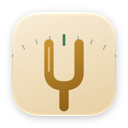
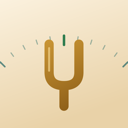
Refresh Our apps listing while preserving Brickwright branding

diff --git a/overlay/scratch-gui/src/components/menu-bar/app-showcase-data.js b/overlay/scratch-gui/src/components/menu-bar/app-showcase-data.js
@@ -4,10 +4,10 @@
 //
 // store: App Store id when the app is live there (mac: only on the Mac App Store);
 // beta: public TestFlight code; neither: a private beta, listed as coming soon.
-export const REFRESHED = '2026-10-27';
+export const REFRESHED = '2026-10-29';
 
 export const APPS = [
-    {slug: 'brickwright', id: '6788993444', name: 'Brickwright', beta: 'UngCMwHZ', self: true,
+    {slug: 'brickwright', id: '6788993444', name: 'Brickwright', beta: 'UngCMwHZ', icon: 'local', self: true,
         en: 'Code, Circuits & Machines', de: 'Code, Schaltungen, Maschinen'},
     {slug: 'cometbeat', id: '6791962816', name: 'CometBeat', store: '6791962816', beta: 'cKUMvyqU',
         en: 'Learn music theory by playing', de: 'Musik lernen mit Spielen'},
@@ -33,7 +33,7 @@ export const APPS = [
         en: 'AI Document Organizer & Search', de: 'Dokumente mit lokaler KI ordnen & durchsuchen'},
     {slug: 'crispsudoku', id: '6788990894', name: 'CrispSudoku', store: '6788990894', beta: 'gjFeKMcH',
         en: 'Classic, Killer, Thermo & more', de: 'Klassisch, Killer, Thermo'},
-    {slug: 'crisptuner', id: '6798295311', name: 'CrispTuner', beta: 'nfCbAzy4',
+    {slug: 'crisptuner', id: '6798295311', name: 'CrispTuner', store: '6798295311', beta: 'nfCbAzy4',
         en: 'Chromatic tuner & temperaments', de: 'Stimmgerät mit Temperaturen'},
     {slug: 'hectopolis', id: '6809142647', name: 'Hectopolis', store: '6809142647', mac: true, beta: 'paBCcWnH',
         en: 'Build, observe, understand', de: 'Bauen, beobachten, verstehen'},

diff --git a/lanes/2026-10-28-editor-showcase-refresh.md b/lanes/2026-10-28-editor-showcase-refresh.md
@@ -1,6 +1,6 @@
 # About — Our apps refresh
 
-Status: CLAIMED, before implementation.
+Status: IMPLEMENTED in an owned candidate; final hosted/main qualification pending.
 Owner: Robot Lab/editor delivery coordinator.
 Branch: `lane/editor-showcase-refresh-20261028`.
 
@@ -18,3 +18,12 @@ App Store Connect write, TestFlight upload or other owners' menu changes.
 Done after local catalogue/asset validation, all required hosted code checks,
 matched-head source merge, and the following main run. Refresh again before a
 later release; this source update is not a release authorization.
+
+
+Implementation (2026-10-29): the read-only Apple refresh checked19 apps,
+9 App Store entries and18 public TestFlight links. CrispTuner now has its
+current App Store link and artwork. Brickwright keeps its exact existing icon,
+marked `icon: 'local'` so future refreshes preserve it. Both checked PNGs are
+128x128; all four existing catalogue/rendering/refresh controls pass. No Apple
+records, releases or TestFlight builds were changed. This source will join the
+combined delivery candidate; final hosted checks and main qualification remain.
